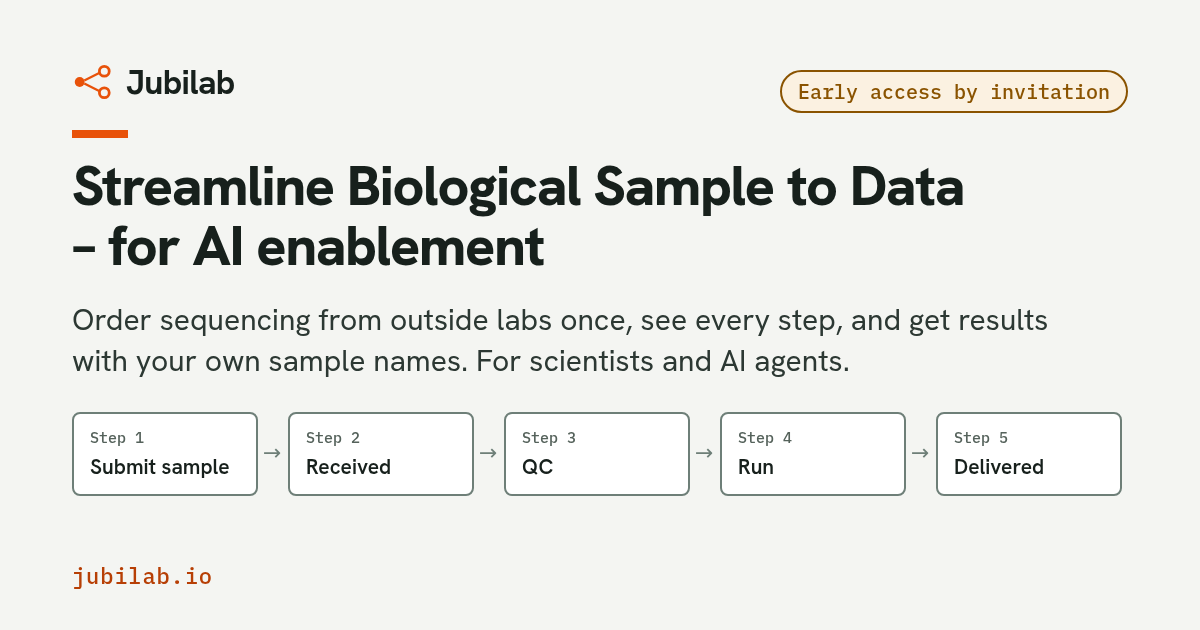
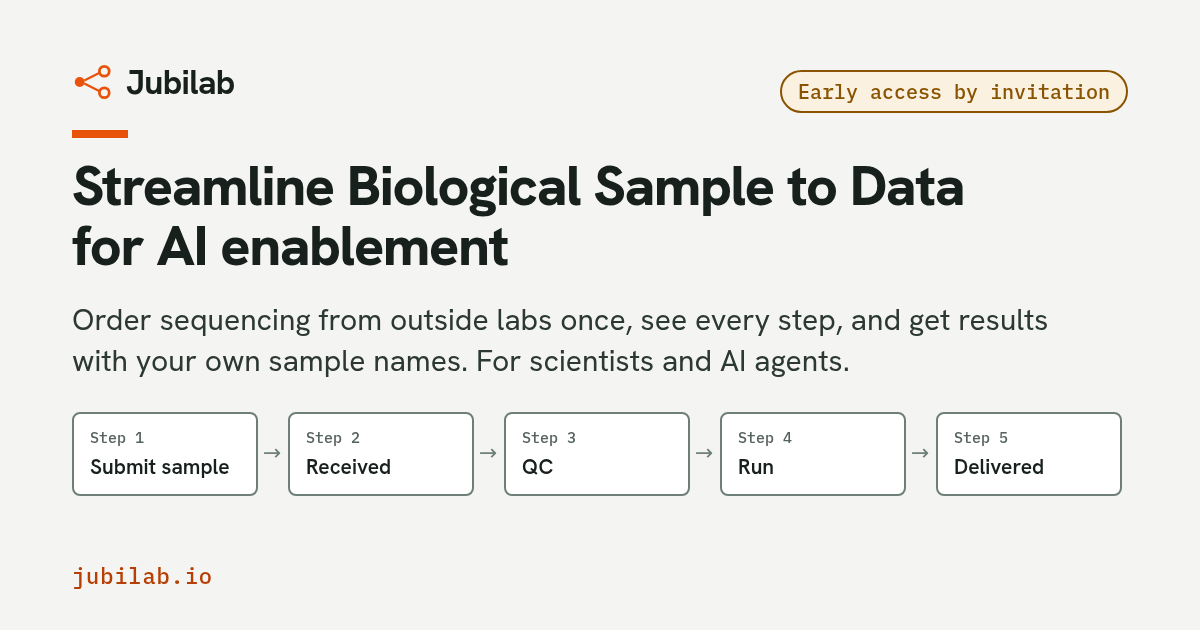
feat(site): remove the dash from the headline (T-051)

Changed region(s): [[0.0617, 0.3619, 0.4625, 0.4222]]

diff --git a/index.html b/index.html
@@ -4,24 +4,24 @@
 <script>window.dataLayer=window.dataLayer||[];function gtag(){dataLayer.push(arguments)}gtag('consent','default',{ad_storage:'denied',ad_user_data:'denied',ad_personalization:'denied',analytics_storage:'denied'})</script>
 <meta charset="utf-8">
 <meta name="viewport" content="width=device-width, initial-scale=1">
-<title>Jubilab: Streamline Biological Sample to Data – for AI enablement</title>
+<title>Jubilab: Streamline Biological Sample to Data for AI enablement</title>
 <meta name="description" content="Early access by invitation. Jubilab is the sample operations layer that connects the people, labs, couriers and AI agents handling a sample, from order to data.">
 <meta name="theme-color" content="#ffffff">
 <link rel="canonical" href="https://jubilab.io/">
 <meta property="og:type" content="website">
 <meta property="og:site_name" content="Jubilab">
-<meta property="og:title" content="Jubilab: Streamline Biological Sample to Data – for AI enablement">
+<meta property="og:title" content="Jubilab: Streamline Biological Sample to Data for AI enablement">
 <meta property="og:description" content="Early access by invitation. Jubilab is the sample operations layer that connects the people, labs, couriers and AI agents handling a sample, from order to data.">
 <meta property="og:url" content="https://jubilab.io/">
 <meta property="og:image" content="https://jubilab.io/assets/og/jubilab-og.png">
 <meta property="og:image:width" content="1200">
 <meta property="og:image:height" content="630">
-<meta property="og:image:alt" content="Jubilab: Streamline Biological Sample to Data – for AI enablement. An order moves from sample submission through received, QC and run to delivered. Early access by invitation.">
+<meta property="og:image:alt" content="Jubilab: Streamline Biological Sample to Data for AI enablement. An order moves from sample submission through received, QC and run to delivered. Early access by invitation.">
 <meta name="twitter:card" content="summary_large_image">
-<meta name="twitter:title" content="Jubilab: Streamline Biological Sample to Data – for AI enablement">
+<meta name="twitter:title" content="Jubilab: Streamline Biological Sample to Data for AI enablement">
 <meta name="twitter:description" content="Early access by invitation. Jubilab is the sample operations layer that connects the people, labs, couriers and AI agents handling a sample, from order to data.">
 <meta name="twitter:image" content="https://jubilab.io/assets/og/jubilab-og.png">
-<meta name="twitter:image:alt" content="Jubilab: Streamline Biological Sample to Data – for AI enablement. An order moves from sample submission through received, QC and run to delivered. Early access by invitation.">
+<meta name="twitter:image:alt" content="Jubilab: Streamline Biological Sample to Data for AI enablement. An order moves from sample submission through received, QC and run to delivered. Early access by invitation.">
 <link rel="icon" href="assets/favicon.svg" type="image/svg+xml">
 <link rel="icon" href="/favicon.ico" sizes="48x48">
 <link rel="apple-touch-icon" href="/assets/apple-touch-icon.png">
@@ -82,7 +82,7 @@
   <div class="wrap hero-grid">
     <div class="hero-text">
       <span class="eyebrow">The sample operations layer</span>
-      <h1 id="h1">Streamline Biological Sample to Data <span class="h1-tail">– for AI enablement</span></h1>
+      <h1 id="h1">Streamline Biological Sample to Data <span class="h1-tail">for AI enablement</span></h1>
       <p class="hero-lead">So scientists and AI agents can order, track and read results across dry labs, wet labs and logistics.</p>
       <p class="hero-sub">For biotech teams, research groups and the labs that run their samples.</p>
       <div class="actions">

diff --git a/guides/index.html b/guides/index.html
@@ -16,12 +16,12 @@
 <meta property="og:image" content="https://jubilab.io/assets/og/jubilab-og.png">
 <meta property="og:image:width" content="1200">
 <meta property="og:image:height" content="630">
-<meta property="og:image:alt" content="Jubilab: Streamline Biological Sample to Data – for AI enablement. An order moves from sample submission through received, QC and run to delivered. Early access by invitation.">
+<meta property="og:image:alt" content="Jubilab: Streamline Biological Sample to Data for AI enablement. An order moves from sample submission through received, QC and run to delivered. Early access by invitation.">
 <meta name="twitter:card" content="summary_large_image">
 <meta name="twitter:title" content="Guides: genome builds, parameters, Nextflow provenance | Jubilab">
 <meta name="twitter:description" content="How-to guides for bioinformatics teams: check the reference genome build of a VCF, find the parameters behind a result, and compare Nextflow provenance tools.">
 <meta name="twitter:image" content="https://jubilab.io/assets/og/jubilab-og.png">
-<meta name="twitter:image:alt" content="Jubilab: Streamline Biological Sample to Data – for AI enablement. An order moves from sample submission through received, QC and run to delivered. Early access by invitation.">
+<meta name="twitter:image:alt" content="Jubilab: Streamline Biological Sample to Data for AI enablement. An order moves from sample submission through received, QC and run to delivered. Early access by invitation.">
 <link rel="icon" href="../assets/favicon.svg" type="image/svg+xml">
 <link rel="icon" href="/favicon.ico" sizes="48x48">
 <link rel="apple-touch-icon" href="/assets/apple-touch-icon.png">

diff --git a/guides/what-parameters-produced-this-result/index.html b/guides/what-parameters-produced-this-result/index.html
@@ -16,12 +16,12 @@
 <meta property="og:image" content="https://jubilab.io/assets/og/jubilab-og.png">
 <meta property="og:image:width" content="1200">
 <meta property="og:image:height" content="630">
-<meta property="og:image:alt" content="Jubilab: Streamline Biological Sample to Data – for AI enablement. An order moves from sample submission through received, QC and run to delivered. Early access by invitation.">
+<meta property="og:image:alt" content="Jubilab: Streamline Biological Sample to Data for AI enablement. An order moves from sample submission through received, QC and run to delivered. Early access by invitation.">
 <meta name="twitter:card" content="summary_large_image">
 <meta name="twitter:title" content="What parameters produced this pipeline result? | Jubilab">
 <meta name="twitter:description" content="Find the parameters behind a pipeline result from Nextflow logs and params files, Snakemake metadata or shell history, see what gets lost, and what to record.">
 <meta name="twitter:image" content="https://jubilab.io/assets/og/jubilab-og.png">
-<meta name="twitter:image:alt" content="Jubilab: Streamline Biological Sample to Data – for AI enablement. An order moves from sample submission through received, QC and run to delivered. Early access by invitation.">
+<meta name="twitter:image:alt" content="Jubilab: Streamline Biological Sample to Data for AI enablement. An order moves from sample submission through received, QC and run to delivered. Early access by invitation.">
 <link rel="icon" href="../../assets/favicon.svg" type="image/svg+xml">
 <link rel="icon" href="/favicon.ico" sizes="48x48">
 <link rel="apple-touch-icon" href="/assets/apple-touch-icon.png">

diff --git a/guides/reference-genome-build-vcf-bam/index.html b/guides/reference-genome-build-vcf-bam/index.html
@@ -16,12 +16,12 @@
 <meta property="og:image" content="https://jubilab.io/assets/og/jubilab-og.png">
 <meta property="og:image:width" content="1200">
 <meta property="og:image:height" content="630">
-<meta property="og:image:alt" content="Jubilab: Streamline Biological Sample to Data – for AI enablement. An order moves from sample submission through received, QC and run to delivered. Early access by invitation.">
+<meta property="og:image:alt" content="Jubilab: Streamline Biological Sample to Data for AI enablement. An order moves from sample submission through received, QC and run to delivered. Early access by invitation.">
 <meta name="twitter:card" content="summary_large_image">
 <meta name="twitter:title" content="Check the reference genome build of a VCF or BAM | Jubilab">
 <meta name="twitter:description" content="Read a VCF or BAM header with bcftools and samtools, compare contig lengths, test REF alleles and avoid chr-prefix and hg19 vs b37 traps. Tested commands.">
 <meta name="twitter:image" content="https://jubilab.io/assets/og/jubilab-og.png">
-<meta name="twitter:image:alt" content="Jubilab: Streamline Biological Sample to Data – for AI enablement. An order moves from sample submission through received, QC and run to delivered. Early access by invitation.">
+<meta name="twitter:image:alt" content="Jubilab: Streamline Biological Sample to Data for AI enablement. An order moves from sample submission through received, QC and run to delivered. Early access by invitation.">
 <link rel="icon" href="../../assets/favicon.svg" type="image/svg+xml">
 <link rel="icon" href="/favicon.ico" sizes="48x48">
 <link rel="apple-touch-icon" href="/assets/apple-touch-icon.png">

diff --git a/guides/nextflow-provenance-and-lineage-compared/index.html b/guides/nextflow-provenance-and-lineage-compared/index.html
@@ -16,12 +16,12 @@
 <meta property="og:image" content="https://jubilab.io/assets/og/jubilab-og.png">
 <meta property="og:image:width" content="1200">
 <meta property="og:image:height" content="630">
-<meta property="og:image:alt" content="Jubilab: Streamline Biological Sample to Data – for AI enablement. An order moves from sample submission through received, QC and run to delivered. Early access by invitation.">
+<meta property="og:image:alt" content="Jubilab: Streamline Biological Sample to Data for AI enablement. An order moves from sample submission through received, QC and run to delivered. Early access by invitation.">
 <meta name="twitter:card" content="summary_large_image">
 <meta name="twitter:title" content="Nextflow provenance and lineage compared | Jubilab">
 <meta name="twitter:description" content="What Nextflow's log, trace, report and experimental lineage record, how Seqera Platform and Snakemake compare, and where a separate record beside them helps.">
 <meta name="twitter:image" content="https://jubilab.io/assets/og/jubilab-og.png">
-<meta name="twitter:image:alt" content="Jubilab: Streamline Biological Sample to Data – for AI enablement. An order moves from sample submission through received, QC and run to delivered. Early access by invitation.">
+<meta name="twitter:image:alt" content="Jubilab: Streamline Biological Sample to Data for AI enablement. An order moves from sample submission through received, QC and run to delivered. Early access by invitation.">
 <link rel="icon" href="../../assets/favicon.svg" type="image/svg+xml">
 <link rel="icon" href="/favicon.ico" sizes="48x48">
 <link rel="apple-touch-icon" href="/assets/apple-touch-icon.png">

diff --git a/blog/index.html b/blog/index.html
@@ -16,12 +16,12 @@
 <meta property="og:image" content="https://jubilab.io/assets/og/jubilab-og.png">
 <meta property="og:image:width" content="1200">
 <meta property="og:image:height" content="630">
-<meta property="og:image:alt" content="Jubilab: Streamline Biological Sample to Data – for AI enablement. An order moves from sample submission through received, QC and run to delivered. Early access by invitation.">
+<meta property="og:image:alt" content="Jubilab: Streamline Biological Sample to Data for AI enablement. An order moves from sample submission through received, QC and run to delivered. Early access by invitation.">
 <meta name="twitter:card" content="summary_large_image">
 <meta name="twitter:title" content="Jubilab blog: how scientific results get made">
 <meta name="twitter:description" content="Notes from the Jubilab team on data provenance, lineage and reproducibility in bioinformatics, with sources and open questions where we are not yet sure.">
 <meta name="twitter:image" content="https://jubilab.io/assets/og/jubilab-og.png">
-<meta name="twitter:image:alt" content="Jubilab: Streamline Biological Sample to Data – for AI enablement. An order moves from sample submission through received, QC and run to delivered. Early access by invitation.">
+<meta name="twitter:image:alt" content="Jubilab: Streamline Biological Sample to Data for AI enablement. An order moves from sample submission through received, QC and run to delivered. Early access by invitation.">
 <link rel="icon" href="../assets/favicon.svg" type="image/svg+xml">
 <link rel="icon" href="/favicon.ico" sizes="48x48">
 <link rel="apple-touch-icon" href="/assets/apple-touch-icon.png">

diff --git a/privacy/index.html b/privacy/index.html
@@ -16,12 +16,12 @@
 <meta property="og:image" content="https://jubilab.io/assets/og/jubilab-og.png">
 <meta property="og:image:width" content="1200">
 <meta property="og:image:height" content="630">
-<meta property="og:image:alt" content="Jubilab: Streamline Biological Sample to Data – for AI enablement. An order moves from sample submission through received, QC and run to delivered. Early access by invitation.">
+<meta property="og:image:alt" content="Jubilab: Streamline Biological Sample to Data for AI enablement. An order moves from sample submission through received, QC and run to delivered. Early access by invitation.">
 <meta name="twitter:card" content="summary_large_image">
 <meta name="twitter:title" content="Privacy | Jubilab">
 <meta name="twitter:description" content="How the Jubilab website handles your data: what the early-access form collects, what the site keeps in your browser, and how to ask us to delete your details.">
 <meta name="twitter:image" content="https://jubilab.io/assets/og/jubilab-og.png">
-<meta name="twitter:image:alt" content="Jubilab: Streamline Biological Sample to Data – for AI enablement. An order moves from sample submission through received, QC and run to delivered. Early access by invitation.">
+<meta name="twitter:image:alt" content="Jubilab: Streamline Biological Sample to Data for AI enablement. An order moves from sample submission through received, QC and run to delivered. Early access by invitation.">
 <link rel="icon" href="../assets/favicon.svg" type="image/svg+xml">
 <link rel="icon" href="/favicon.ico" sizes="48x48">
 <link rel="apple-touch-icon" href="/assets/apple-touch-icon.png">

diff --git a/terms/index.html b/terms/index.html
@@ -16,12 +16,12 @@
 <meta property="og:image" content="https://jubilab.io/assets/og/jubilab-og.png">
 <meta property="og:image:width" content="1200">
 <meta property="og:image:height" content="630">
-<meta property="og:image:alt" content="Jubilab: Streamline Biological Sample to Data – for AI enablement. An order moves from sample submission through received, QC and run to delivered. Early access by invitation.">
+<meta property="og:image:alt" content="Jubilab: Streamline Biological Sample to Data for AI enablement. An order moves from sample submission through received, QC and run to delivered. Early access by invitation.">
 <meta name="twitter:card" content="summary_large_image">
 <meta name="twitter:title" content="Terms | Jubilab">
 <meta name="twitter:description" content="The terms for using the Jubilab website and requesting early access: what early access means, acceptable use, liability, governing law, and how to contact us.">
 <meta name="twitter:image" content="https://jubilab.io/assets/og/jubilab-og.png">
-<meta name="twitter:image:alt" content="Jubilab: Streamline Biological Sample to Data – for AI enablement. An order moves from sample submission through received, QC and run to delivered. Early access by invitation.">
+<meta name="twitter:image:alt" content="Jubilab: Streamline Biological Sample to Data for AI enablement. An order moves from sample submission through received, QC and run to delivered. Early access by invitation.">
 <link rel="icon" href="../assets/favicon.svg" type="image/svg+xml">
 <link rel="icon" href="/favicon.ico" sizes="48x48">
 <link rel="apple-touch-icon" href="/assets/apple-touch-icon.png">

diff --git a/thanks/index.html b/thanks/index.html
@@ -18,12 +18,12 @@
 <meta property="og:image" content="https://jubilab.io/assets/og/jubilab-og.png">
 <meta property="og:image:width" content="1200">
 <meta property="og:image:height" content="630">
-<meta property="og:image:alt" content="Jubilab: Streamline Biological Sample to Data – for AI enablement. An order moves from sample submission through received, QC and run to delivered. Early access by invitation.">
+<meta property="og:image:alt" content="Jubilab: Streamline Biological Sample to Data for AI enablement. An order moves from sample submission through received, QC and run to delivered. Early access by invitation.">
 <meta name="twitter:card" content="summary_large_image">
 <meta name="twitter:title" content="Thank you | Jubilab">
 <meta name="twitter:description" content="Your early-access request was received.">
 <meta name="twitter:image" content="https://jubilab.io/assets/og/jubilab-og.png">
-<meta name="twitter:image:alt" content="Jubilab: Streamline Biological Sample to Data – for AI enablement. An order moves from sample submission through received, QC and run to delivered. Early access by invitation.">
+<meta name="twitter:image:alt" content="Jubilab: Streamline Biological Sample to Data for AI enablement. An order moves from sample submission through received, QC and run to delivered. Early access by invitation.">
 <link rel="icon" href="../assets/favicon.svg" type="image/svg+xml">
 <link rel="icon" href="/favicon.ico" sizes="48x48">
 <link rel="apple-touch-icon" href="/assets/apple-touch-icon.png">

diff --git a/404.html b/404.html
@@ -16,12 +16,12 @@
 <meta property="og:image" content="https://jubilab.io/assets/og/jubilab-og.png">
 <meta property="og:image:width" content="1200">
 <meta property="og:image:height" content="630">
-<meta property="og:image:alt" content="Jubilab: Streamline Biological Sample to Data – for AI enablement. An order moves from sample submission through received, QC and run to delivered. Early access by invitation.">
+<meta property="og:image:alt" content="Jubilab: Streamline Biological Sample to Data for AI enablement. An order moves from sample submission through received, QC and run to delivered. Early access by invitation.">
 <meta name="twitter:card" content="summary_large_image">
 <meta name="twitter:title" content="Page not found | Jubilab">
 <meta name="twitter:description" content="This page does not exist.">
 <meta name="twitter:image" content="https://jubilab.io/assets/og/jubilab-og.png">
-<meta name="twitter:image:alt" content="Jubilab: Streamline Biological Sample to Data – for AI enablement. An order moves from sample submission through received, QC and run to delivered. Early access by invitation.">
+<meta name="twitter:image:alt" content="Jubilab: Streamline Biological Sample to Data for AI enablement. An order moves from sample submission through received, QC and run to delivered. Early access by invitation.">
 <link rel="icon" href="/assets/favicon.svg" type="image/svg+xml">
 <link rel="icon" href="/favicon.ico" sizes="48x48">
 <link rel="apple-touch-icon" href="/assets/apple-touch-icon.png">

diff --git a/assets/og/og-source.html b/assets/og/og-source.html
@@ -22,7 +22,7 @@ p{position:absolute;left:72px;top:300px;margin:0;font-size:30px;line-height:1.35
 </style></head><body>
 <div class="brand"><svg viewBox="0 0 26 26"><circle cx="5" cy="13" r="3.2" fill="#e8520a"/><circle cx="21" cy="6" r="3.2" fill="none" stroke="#e8520a" stroke-width="1.8"/><circle cx="21" cy="20" r="3.2" fill="none" stroke="#e8520a" stroke-width="1.8"/><path d="M8 12 L18 7 M8 14 L18 19" stroke="#e8520a" stroke-width="1.5" fill="none"/></svg>Jubilab</div>
 <div class="bar"></div>
-<h1>Streamline Biological Sample to Data <span style="white-space:nowrap">– for AI enablement</span></h1>
+<h1>Streamline Biological Sample to Data <span style="white-space:nowrap">for AI enablement</span></h1>
 <p>Order sequencing from outside labs once, see every step, and get results with your own sample names. For scientists and AI agents.</p>
 <div class="tag">Early access by invitation</div>
 <div class="url">jubilab.io</div>

diff --git a/review/check-site.py b/review/check-site.py
@@ -126,7 +126,7 @@ def run():
                 m = pg.evaluate(MEASURE); t = f"{w}/{th}"
                 rec(1, abs(m["sw"] - m["iw"]) <= 1 and m["overflowN"] == 0, f"{t} scrollWidth {m['sw']}/{m['iw']}, {m['overflowN']} elements outside viewport {m['overflow'][:2]}")
                 rec(2, m["pre"]["n"] == 0, f"{t} code blocks {m['pre']}")
-                rec(3, m["h1"]["n"] == 1 and m["h1"]["text"] == "Streamline Biological Sample to Data – for AI enablement" and m["lead"] == "So scientists and AI agents can order, track and read results across dry labs, wet labs and logistics." and m["sub"].startswith("For biotech teams, research groups and the labs that run their samples") and not m["themeToggle"] and not m["skip"] and not m["h2Outside"], f"{t} h1 {m['h1']['n']} skip {m['skip']}")
+                rec(3, m["h1"]["n"] == 1 and m["h1"]["text"] == "Streamline Biological Sample to Data for AI enablement" and m["lead"] == "So scientists and AI agents can order, track and read results across dry labs, wet labs and logistics." and m["sub"].startswith("For biotech teams, research groups and the labs that run their samples") and not m["themeToggle"] and not m["skip"] and not m["h2Outside"], f"{t} h1 {m['h1']['n']} skip {m['skip']}")
                 rec(4, m["secIds"] == SECTIONS, f"{t} sections {m['secIds']}")
                 rec(5, [x[:2] for x in m["sub_nav"]] == [list(n) for n in NAV] and all(x[2] for x in m["sub_nav"]), f"{t} nav {m['sub_nav']}")
                 rec(6, len(m["flow"]) == 2 and all(f["role"] == "img" and f["title"] and f["desc"] > 200 and f["minFont"] >= 11.9 and f["w"] <= m["iw"] and f["lanes"] and f["cls"] == ("dg dg-wide" if w >= 1000 else "dg dg-tall") for f in m["flow"]) and m["journey"] == ["ORD-1042", "ORD-1041", "ORD-1039", "ORD-1037"], f"{t} diagrams {m['flow']} hero dashboard orders {m['journey']}")
